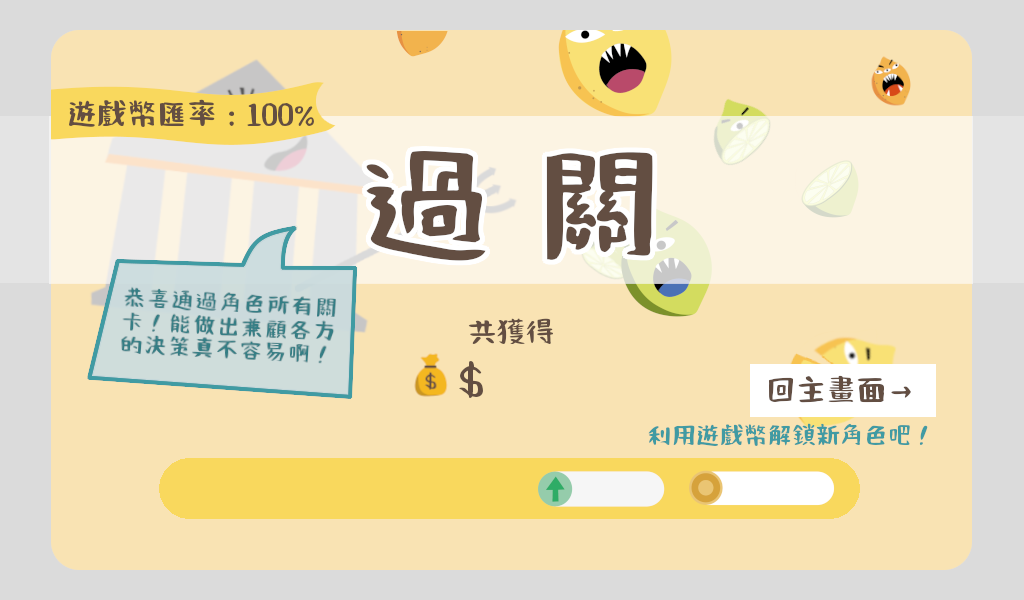
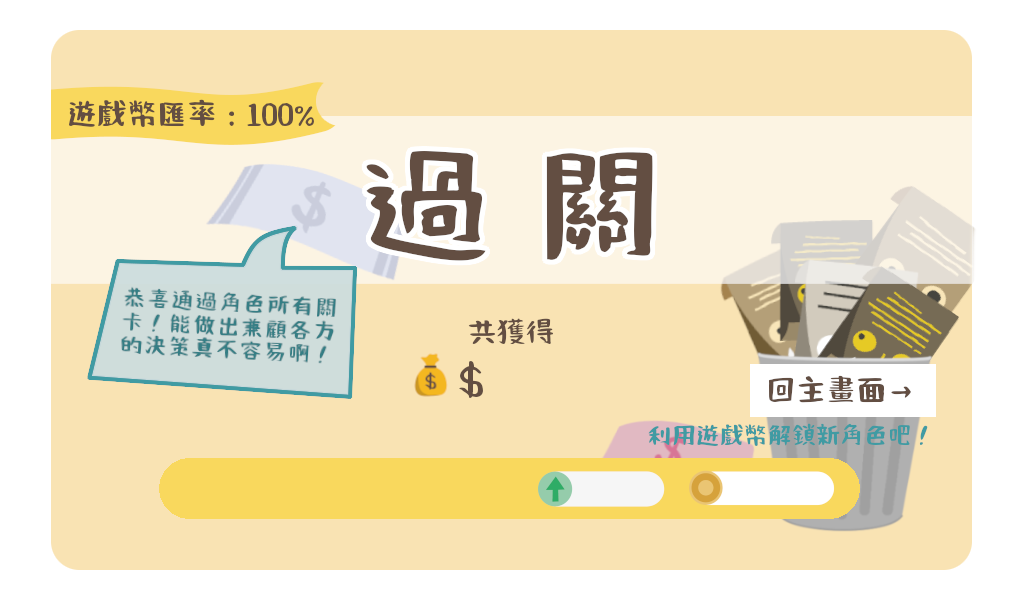
0818-2325 commit

diff --git a/event/event.py b/event/event.py
@@ -158,7 +158,7 @@ class Events:
             elif self.using_player == 2:
                 self.event_list = [1,2,3,4,5,6]
             random.shuffle(self.event_list)
-            print(self.event_list)
+            #print(self.event_list)
         get = 0
         for player in self.players.player_btn:
             if player.buy_rect.collidepoint(x,y) and player.show_buy:
@@ -168,7 +168,7 @@ class Events:
                     dict_temp[player.name] = str(1)
                     player.unlock = True
                     player.show_buy = False
-                    print(dict_temp)
+                    #print(dict_temp)
                     file = open('dict.txt', 'w') 
                     for k,v in dict_temp.items():
                         file.write(str(k)+' '+str(v)+'\n')
@@ -460,8 +460,8 @@ class Events:
         game.game_model.add_2[1] = tower_upgrade2
         game.game_model.add_2[2] = money_get2
 
-        print(game.game_model.add_1)
-        print(game.game_model.add_2)
+        #print(game.game_model.add_1)
+        #print(game.game_model.add_2)
 
 
         game.game_model.notify = self.notify
@@ -484,6 +484,10 @@ class Events:
         self.chosen = []
         percentage = [0,10,20,40,60,100]
         while True:
+            surface = pygame.Surface((WIN_WIDTH, WIN_HEIGHT), pygame.SRCALPHA)
+            transparency = 10
+            pygame.draw.rect(surface, (150, 150, 150, transparency), (0,0,WIN_WIDTH, WIN_HEIGHT))
+            self.win.blit(surface, (0, 0))
             self.win.blit(WIN_STAGE_BG[self.using_player-1],(0,0))
             text = '* ' + str(game.game_model.tower_money) #塔防幣
             show_text(self.win,text,23,616,473)
@@ -521,6 +525,10 @@ class Events:
             pygame.mixer.music.pause()
             self.win_sound.play()
         while True:
+            surface = pygame.Surface((WIN_WIDTH, WIN_HEIGHT), pygame.SRCALPHA)
+            transparency = 10
+            pygame.draw.rect(surface, (122, 122, 122, transparency), (0,0,WIN_WIDTH, WIN_HEIGHT))
+            self.win.blit(surface, (0, 0))
             self.win.blit(ALL_PASS_BG[self.using_player-1],(0,0))
             text = '* ' + str(game.game_model.tower_money)#塔防幣
             show_text(self.win,text,23,610,473)
@@ -553,6 +561,11 @@ class Events:
         
         percentage = [0,10,20,40,60,100]
         while True:
+            surface = pygame.Surface((WIN_WIDTH, WIN_HEIGHT), pygame.SRCALPHA)
+            transparency = 10
+            pygame.draw.rect(surface, (122, 122, 122, transparency), (0,0,WIN_WIDTH, WIN_HEIGHT))
+            self.win.blit(surface, (0, 0))
+
             self.win.blit(FAIL_BG[self.using_player-1],(0,0))
             text = '* ' + str(game.game_model.tower_money)#塔防幣
             show_text(self.win,text,23,610,473)

diff --git a/settings.py b/settings.py
@@ -63,12 +63,13 @@ TOWER_MONEY_MENU_IMAGE = pygame.transform.scale(pygame.image.load(os.path.join("
 
 MESSAGE_CONTINUE = pygame.transform.scale(pygame.image.load(os.path.join("images1/game_page", "special_event_continue.png")),(190, 21))
 
-ALL_PASS_BG = [pygame.transform.scale(pygame.image.load(os.path.join("images1/end_page", "ALL_PASS_BG_3.png")),(WIN_WIDTH,WIN_HEIGHT)),
-                pygame.transform.scale(pygame.image.load(os.path.join("images1/end_page", "ALL_PASS_wfh_BG.png")),(WIN_WIDTH,WIN_HEIGHT))]
-WIN_STAGE_BG = [pygame.transform.scale(pygame.image.load(os.path.join("images1/end_page", "WIN_BG_3.png")),(WIN_WIDTH,WIN_HEIGHT)),
-                pygame.transform.scale(pygame.image.load(os.path.join("images1/end_page", "WIN_wfh_BG.png")),(WIN_WIDTH,WIN_HEIGHT))]
-FAIL_BG = [pygame.transform.scale(pygame.image.load(os.path.join("images1/end_page", "LOSE_BG_3.png")),(WIN_WIDTH,WIN_HEIGHT)),
-        pygame.transform.scale(pygame.image.load(os.path.join("images1/end_page", "LOSE_wfh_BG.png")),(WIN_WIDTH,WIN_HEIGHT))]
+ALL_PASS_BG = [pygame.transform.scale(pygame.image.load(os.path.join("images1/end_page", "ALL_PASS_BG_4.png")),(WIN_WIDTH,WIN_HEIGHT)),
+                pygame.transform.scale(pygame.image.load(os.path.join("images1/end_page", "ALL_PASS_BG_3.png")),(WIN_WIDTH,WIN_HEIGHT))]
+WIN_STAGE_BG = [pygame.transform.scale(pygame.image.load(os.path.join("images1/end_page", "WIN_BG_4.png")),(WIN_WIDTH,WIN_HEIGHT)),
+                pygame.transform.scale(pygame.image.load(os.path.join("images1/end_page", "WIN_BG_3.png")),(WIN_WIDTH,WIN_HEIGHT))]
+FAIL_BG = [pygame.transform.scale(pygame.image.load(os.path.join("images1/end_page", "LOSE_BG_4.png")),(WIN_WIDTH,WIN_HEIGHT)),
+        pygame.transform.scale(pygame.image.load(os.path.join("images1/end_page", "LOSE_BG_3.png")),(WIN_WIDTH,WIN_HEIGHT))]
 ABILITY_BTN_IMAGE = [pygame.transform.scale(pygame.image.load(os.path.join("images1/game_page", "special_skill.png")), (95, 95))]
 PRODUCER_BACKGROUND = pygame.transform.scale(pygame.image.load(os.path.join("images1/start_page", "producer.png")),(WIN_WIDTH,WIN_HEIGHT))
+INTRO_BACKGROUND = pygame.transform.scale(pygame.image.load(os.path.join("images1/start_page", "Game_Intro.png")),(WIN_WIDTH,WIN_HEIGHT))
 SHRINK_IMAGE = pygame.transform.scale(pygame.image.load(os.path.join('images1/notify_message', "click_to_shrink.png")), (129, 11))

diff --git a/start_menu.py b/start_menu.py
@@ -28,6 +28,9 @@ class StartMenu:
                         self.producer_btn,
                         self.start_btn]
         self.last_page_btn = Events().buttons[4]
+        self.last_page_btn2 = Events().buttons[4].image
+        self.last_page_btn2_rect = self.last_page_btn2.get_rect()
+        self.last_page_btn2_rect.center = (50,540)
         # music and sound
         self.sound = pygame.mixer.Sound("./music/bg_music.wav")
         # page
@@ -79,7 +82,19 @@ class StartMenu:
                                 run2 = False
                             else:  # producer page
                                 run2 = True
-
+                    elif self.introduce_btn.clicked(x, y):
+                        run2 = True
+                        while run2:
+                            self.menu_win.blit(INTRO_BACKGROUND, (0, 0))
+                            
+                            self.menu_win.blit(self.last_page_btn2,self.last_page_btn2_rect)
+                            quit, last = self.intro_page_show()
+                            if quit:
+                                return False
+                            if last:  # last page
+                                run2 = False
+                            else:  # producer page
+                                run2 = True
                         pygame.display.update()
                         
                     """(Q1.1) music on/off according to the button"""
@@ -97,6 +112,16 @@ class StartMenu:
             if event.type == pygame.MOUSEBUTTONDOWN:
                 x, y = pygame.mouse.get_pos()
                 if self.last_page_btn.image_rect.collidepoint(x, y):
+                    return False, True
+            if event.type == pygame.QUIT:
+                return True, False
+        pygame.display.update()
+        return False, False
+    def intro_page_show(self):
+        for event in pygame.event.get():
+            if event.type == pygame.MOUSEBUTTONDOWN:
+                x, y = pygame.mouse.get_pos()
+                if self.last_page_btn2_rect.collidepoint(x, y):
                     return False, True
             if event.type == pygame.QUIT:
                 return True, False

diff --git a/game/game.py b/game/game.py
@@ -8,8 +8,8 @@ import os
 
 class Game:
     def __init__(self,player:int) -> None:
-        print('build game')
-        print(player)
+        #print('build game')
+        #print(player)
         self.game_model = GameModel(player)  # core of the game (database, game logic...)
         self.game_view = GameView(player)  # render everything
         self.keep_going = False
@@ -78,7 +78,7 @@ class Game:
                 self.keep_going = False
             else:
                 pass
-        print(self.keep_going,self.fail,self.all_pass,self.quit_game)
+        #print(self.keep_going,self.fail,self.all_pass,self.quit_game)
         return self.quit_game
     def mute(self,mute:bool):
         self.game_model.mute = mute

diff --git a/README.md b/README.md
@@ -1,3 +1,2 @@
 # Final_project-7-2
 
-test push
